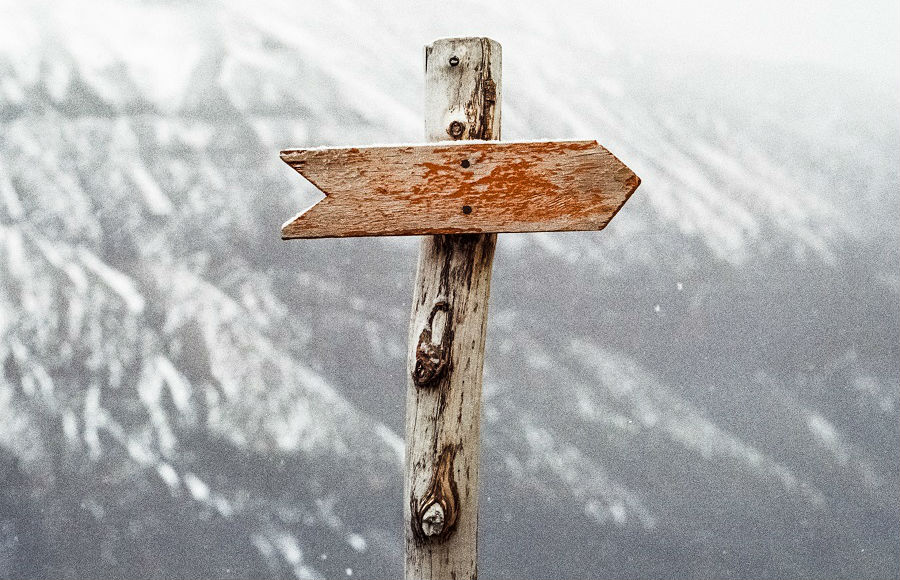
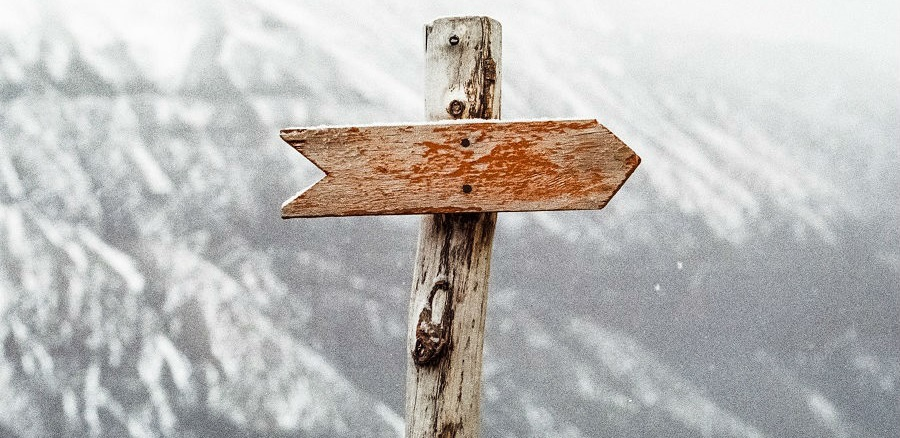
Improvements to $if

diff --git a/galaxyjs/galaxy.js b/galaxyjs/galaxy.js
@@ -3232,8 +3232,8 @@ Galaxy.View = /** @class */(function (G) {
       } else {
         viewNode.callLifecycleEvent('postInit');
       }
+
       // viewNode.onReady promise will be resolved after all the dom manipulations are done
-      // this make sure that the viewNode and its child elements are rendered
       requestAnimationFrame(function () {
         viewNode.sequences.enter.nextAction(function () {
           viewNode.callLifecycleEvent('rendered');
@@ -4087,8 +4087,9 @@ Galaxy.View.ViewNode = /** @class */ (function (GV) {
    * @param {string} id event id
    */
   ViewNode.prototype.callLifecycleEvent = function (id) {
-    if (this.schema.lifecycle && typeof this.schema.lifecycle[id] === 'function') {
-      this.schema.lifecycle[id].call(this, this.inputs, this.data, this.sequences);
+    const lifecycle = this.schema.lifecycle;
+    if (lifecycle && typeof lifecycle[id] === 'function') {
+      lifecycle[id].call(this, this.inputs, this.data, this.sequences);
     }
   };
 
@@ -4461,6 +4462,7 @@ Galaxy.View.ViewNode = /** @class */ (function (GV) {
      * @param {Galaxy.View.ViewNode} viewNode
      * @param attr
      * @param animations
+     * @param oldConfig
      * @param scopeData
      */
     handler: function (viewNode, attr, animations, oldConfig, scopeData) {
@@ -4481,6 +4483,7 @@ Galaxy.View.ViewNode = /** @class */ (function (GV) {
             TweenLite.killTweensOf(viewNode.node);
           });
 
+          // if enterWithParent flag is there, then only apply animation only to the nodes are rendered
           if (animations.config.enterWithParent) {
             const parent = viewNode.parent;
             if (!parent.rendered.resolved) {
@@ -4507,6 +4510,7 @@ Galaxy.View.ViewNode = /** @class */ (function (GV) {
             TweenLite.killTweensOf(viewNode.node);
           });
 
+          // if the leaveWithParent flag is there, then apply animation only to non-transitory nodes
           if (animations.config.leaveWithParent) {
             const parent = viewNode.parent;
             if (parent.transitory) {
@@ -5496,10 +5500,16 @@ Galaxy.View.ViewNode = /** @class */ (function (GV) {
         config.onDone.ignore = true;
       });
 
-      const waitStepDone = registerWaitStep(parentNode.cache);
       if (value) {
+        // Only apply $if logic on the elements that are rendered
+        if (!node.rendered.resolved) {
+          return;
+        }
+
+        const waitStepDone = registerWaitStep(parentNode.cache);
         waitStepDone();
       } else {
+        const waitStepDone = registerWaitStep(parentNode.cache);
         const process = createFalseProcess(node, waitStepDone);
         if (parentSchema.renderConfig && parentSchema.renderConfig.domManipulationOrder === 'cascade') {
           parentNode.cache.mainChildIfLeaveProcesses.push(process);

diff --git a/modules/if-demo/index.js b/modules/if-demo/index.js
@@ -7,7 +7,7 @@ Scope.data.condition = true;
 const itemAnimations = {
   enter: {
     parent: 'card',
-    sequence: 'list-items',
+    sequence: 'if-items',
     from: {
       opacity: 0,
       x: 20
@@ -16,18 +16,18 @@ const itemAnimations = {
       opacity: 1,
       x: 0
     },
-    position: '-=.3',
-    duration: .5
+    position: '-=.2',
+    duration: .3
   },
   leave: {
     parent: 'card',
-    sequence: 'list-items',
+    sequence: 'if-items',
     to: {
-      x: 20,
+      x: 25,
       opacity: 0
     },
-    position: '-=.3',
-    duration: .5
+    position: '-=.18',
+    duration: .2
   }
 };
 
@@ -63,34 +63,47 @@ view.init({
         },
         {
           tag: 'p',
+          children: [
+            {
+              tag: 'text',
+              text: 'Condition is: '
+            },
+            {
+              tag: 'strong',
+              text: '<>data.condition'
+            }
+          ]
+        },
+        {
+          tag: 'p',
           text: ' Item 1',
           animations: itemAnimations,
-          $if: '<>data.condition',
+          $if: '<>data.condition'
         },
         {
           tag: 'p',
           text: ' Item 2',
           animations: itemAnimations,
-          $if: '<>data.condition',
+          $if: '<>data.condition'
 
         },
         {
           tag: 'p',
           text: ' Item 3',
           animations: itemAnimations,
-          $if: '<>data.condition',
+          $if: '<>data.condition'
         },
         {
           tag: 'p',
           text: ' Item 4',
           animations: itemAnimations,
-          $if: '<>data.condition',
+          $if: '<>data.condition'
         },
         {
           tag: 'p',
           text: ' Item 5',
           animations: itemAnimations,
-          $if: '<>data.condition',
+          $if: '<>data.condition'
         }
       ]
     }

diff --git a/services/animations.js b/services/animations.js
@@ -7,7 +7,18 @@ const animations = {
       from: {
         transformOrigin: 'top center',
         scale: 1.1,
-        opacity: 0
+        opacity: 0,
+        position: 'absolute',
+        top: 0,
+        x: function (val, node) {
+          return node.offsetLeft;
+        }
+      },
+      to: {
+        top: 0,
+        scale: 1,
+        opacity: 1,
+        position: 'absolute'
       },
       duration: .3,
       position: '-=.15',
@@ -18,13 +29,15 @@ const animations = {
       sequence: 'card',
       fixedPosition: true,
       from: {
-        transformOrigin: 'top center',
-        position: 'absolute',
-        x: function (val, node) {
-          return node.offsetLeft;
-        }
+        transformOrigin: 'top center'
+        // position: 'absolute',
+        // x: function (val, node) {
+        //   return node.offsetLeft;
+        // }
       },
       to: {
+        // position: 'absolute',
+        display: 'none',
         scale: .9,
         opacity: 0
       },
@@ -52,7 +65,7 @@ const animations = {
       },
       position: '-=.4',
       duration: .5
-    },
+    }
     // '.done': {
     //   sequence: 'card',
     //   group: 'item-state',
@@ -100,7 +113,7 @@ const animations = {
         },
         position: '-=.2',
         duration: .3
-      },
+      }
       // leave: {
       //   parent: lParent || null,
       //   sequence: lSequence,
@@ -134,7 +147,7 @@ animations.mainNavItem = {
       transition: 'none',
       autoAlpha: 0,
       x: '-25%',
-      ease: Elastic.easeOut.config(1, .5),
+      ease: Elastic.easeOut.config(1, .5)
     },
     position: '-=.4',
     chainToParent: true,

diff --git a/modules/list-demo/index.js b/modules/list-demo/index.js
@@ -20,17 +20,18 @@ const itemAnimations = {
       opacity: 1,
       x: 0
     },
-    duration: .6
+    position: '-=.2',
+    duration: .5
   },
   leave: {
     parent: 'card',
     sequence: 'list-items',
     to: {
       x: 20,
-      backgroundColor: 'red'
+      opacity: 0
     },
     position: '-=.3',
-    duration: .6
+    duration: .5
   }
 };
 

diff --git a/modules/start/index.js b/modules/start/index.js
@@ -10,8 +10,8 @@ view.init({
     {
       tag: 'img',
       class: 'banner',
-      src: 'modules/start/images/galaxy-1.jpeg',
-      height: '600'
+      src: 'modules/start/images/galaxy-2.jpeg',
+      height: '410'
     },
     {
       tag: 'section',

diff --git a/modules/guide/index.js b/modules/guide/index.js
@@ -21,7 +21,7 @@ view.init({
       tag: 'img',
       class: 'banner',
       src: 'assets/images/guide.jpg',
-      height: '580'
+      height: '410'
     },
     {
       class: 'content',

diff --git a/modules/api/index.js b/modules/api/index.js
@@ -22,7 +22,7 @@ view.init({
       tag: 'img',
       class: 'banner',
       src: 'assets/images/tools.jpg',
-      height: '600'
+      height: '410'
     },
     {
       tag: 'section',

diff --git a/styles/styles.css b/styles/styles.css
@@ -130,6 +130,7 @@ a {
   margin: 0 0 15px;
   line-height: 20px;
   border-left: 0 solid #455a64;
+  cursor: pointer;
   transition: all .2s ease-in-out;
 }
 
